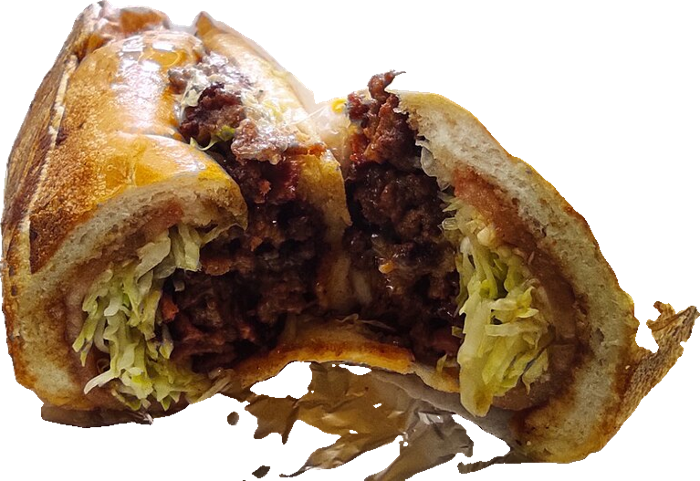
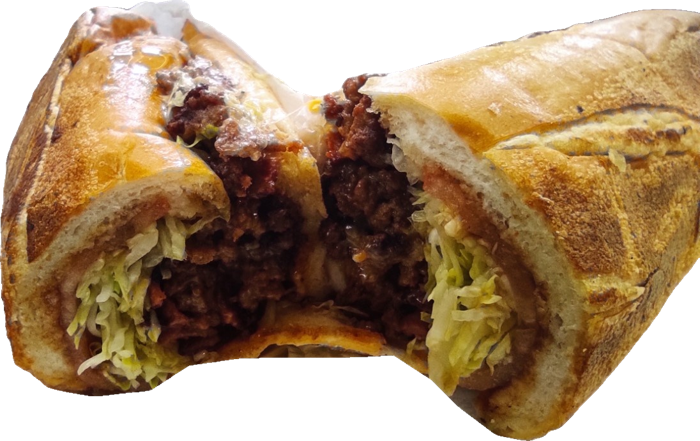
Add kitchen dish photos with credits
Twelve open-licensed Wikimedia Commons photos, background removed and
cropped. Sources, authors and licenses are in images/CREDITS.md.

diff --git a/images/CREDITS.md b/images/CREDITS.md
@@ -1,0 +1,18 @@
+# Image credits
+
+All food photos come from Wikimedia Commons. Each image here has been modified: the background was removed, and the photo was cropped and resized. Images under a CC BY-SA license are shared under that same license.
+
+| File | Source | Author | License |
+|---|---|---|---|
+| bacon-egg-cheese.png | [Diner-Bacon-&-Egg-Sandwich-On-Roll.jpg](https://commons.wikimedia.org/wiki/File:Diner-Bacon-%26-Egg-Sandwich-On-Roll.jpg) | Evan-Amos | Public domain |
+| bagel-cream-cheese.png | [NCI cream cheese bagel.jpg](https://commons.wikimedia.org/wiki/File:NCI_cream_cheese_bagel.jpg) | Renee Comet (National Cancer Institute) | Public domain |
+| pancakes.png | [Pancakes, "Smart Coffee", Kyōto.jpg](https://commons.wikimedia.org/wiki/File:Pancakes,_%22Smart_Coffee%22,_Ky%C5%8Dto.jpg) | akira yamada from Yokohama, Japan | [CC BY-SA 2.0](https://creativecommons.org/licenses/by-sa/2.0) |
+| breakfast-burrito.png | [Bacon Kale Breakfast Burrito (8429773809).jpg](https://commons.wikimedia.org/wiki/File:Bacon_Kale_Breakfast_Burrito_(8429773809).jpg) | Cajsa Lilliehook from Portland | [CC BY-SA 2.0](https://creativecommons.org/licenses/by-sa/2.0) |
+| chopped-cheese.png | [Chopped cheese Crotona Bronx.jpg](https://commons.wikimedia.org/wiki/File:Chopped_cheese_Crotona_Bronx.jpg) | Logimancer (en.wikipedia uploader) | [CC BY 4.0](https://creativecommons.org/licenses/by/4.0) |
+| italian-hero.png | [Hoagie Hero Sub Sandwich.jpg](https://commons.wikimedia.org/wiki/File:Hoagie_Hero_Sub_Sandwich.jpg) | BillyTFried at English Wikipedia | [CC BY-SA 3.0](https://creativecommons.org/licenses/by-sa/3.0) |
+| chicken-cutlet-hero.png | [9055Foods of Bulacan 05.jpg](https://commons.wikimedia.org/wiki/File:9055Foods_of_Bulacan_05.jpg) | Judgefloro | [CC0 1.0](https://creativecommons.org/publicdomain/zero/1.0/) |
+| philly-cheesesteak.png | [Philly Cheesesteak - 5449870218.jpg](https://commons.wikimedia.org/wiki/File:Philly_Cheesesteak_-_5449870218.jpg) | JoshBerglund19 | [CC BY 2.0](https://creativecommons.org/licenses/by/2.0) |
+| cheeseburger-deluxe.png | [NYC-Diner-ToGo-Cheeseburger-Deluxe.jpg](https://commons.wikimedia.org/wiki/File:NYC-Diner-ToGo-Cheeseburger-Deluxe.jpg) | Evan-Amos | Public domain |
+| chicken-wings.png | [Torches Petaluma - July 2023 - Sarah Stierch 07.jpg](https://commons.wikimedia.org/wiki/File:Torches_Petaluma_-_July_2023_-_Sarah_Stierch_07.jpg) | Sarah Stierch (Missvain) | [CC BY 4.0](https://creativecommons.org/licenses/by/4.0) |
+| chicken-over-rice.png | [Chicken over rice (16425553415).jpg](https://commons.wikimedia.org/wiki/File:Chicken_over_rice_(16425553415).jpg) | T.Tseng | [CC BY 2.0](https://creativecommons.org/licenses/by/2.0) |
+| chicken-parm-hero.png | [Chicken Parm 4.jpg](https://commons.wikimedia.org/wiki/File:Chicken_Parm_4.jpg) | Key West Wedding Photography | [CC BY 2.0](https://creativecommons.org/licenses/by/2.0) |
